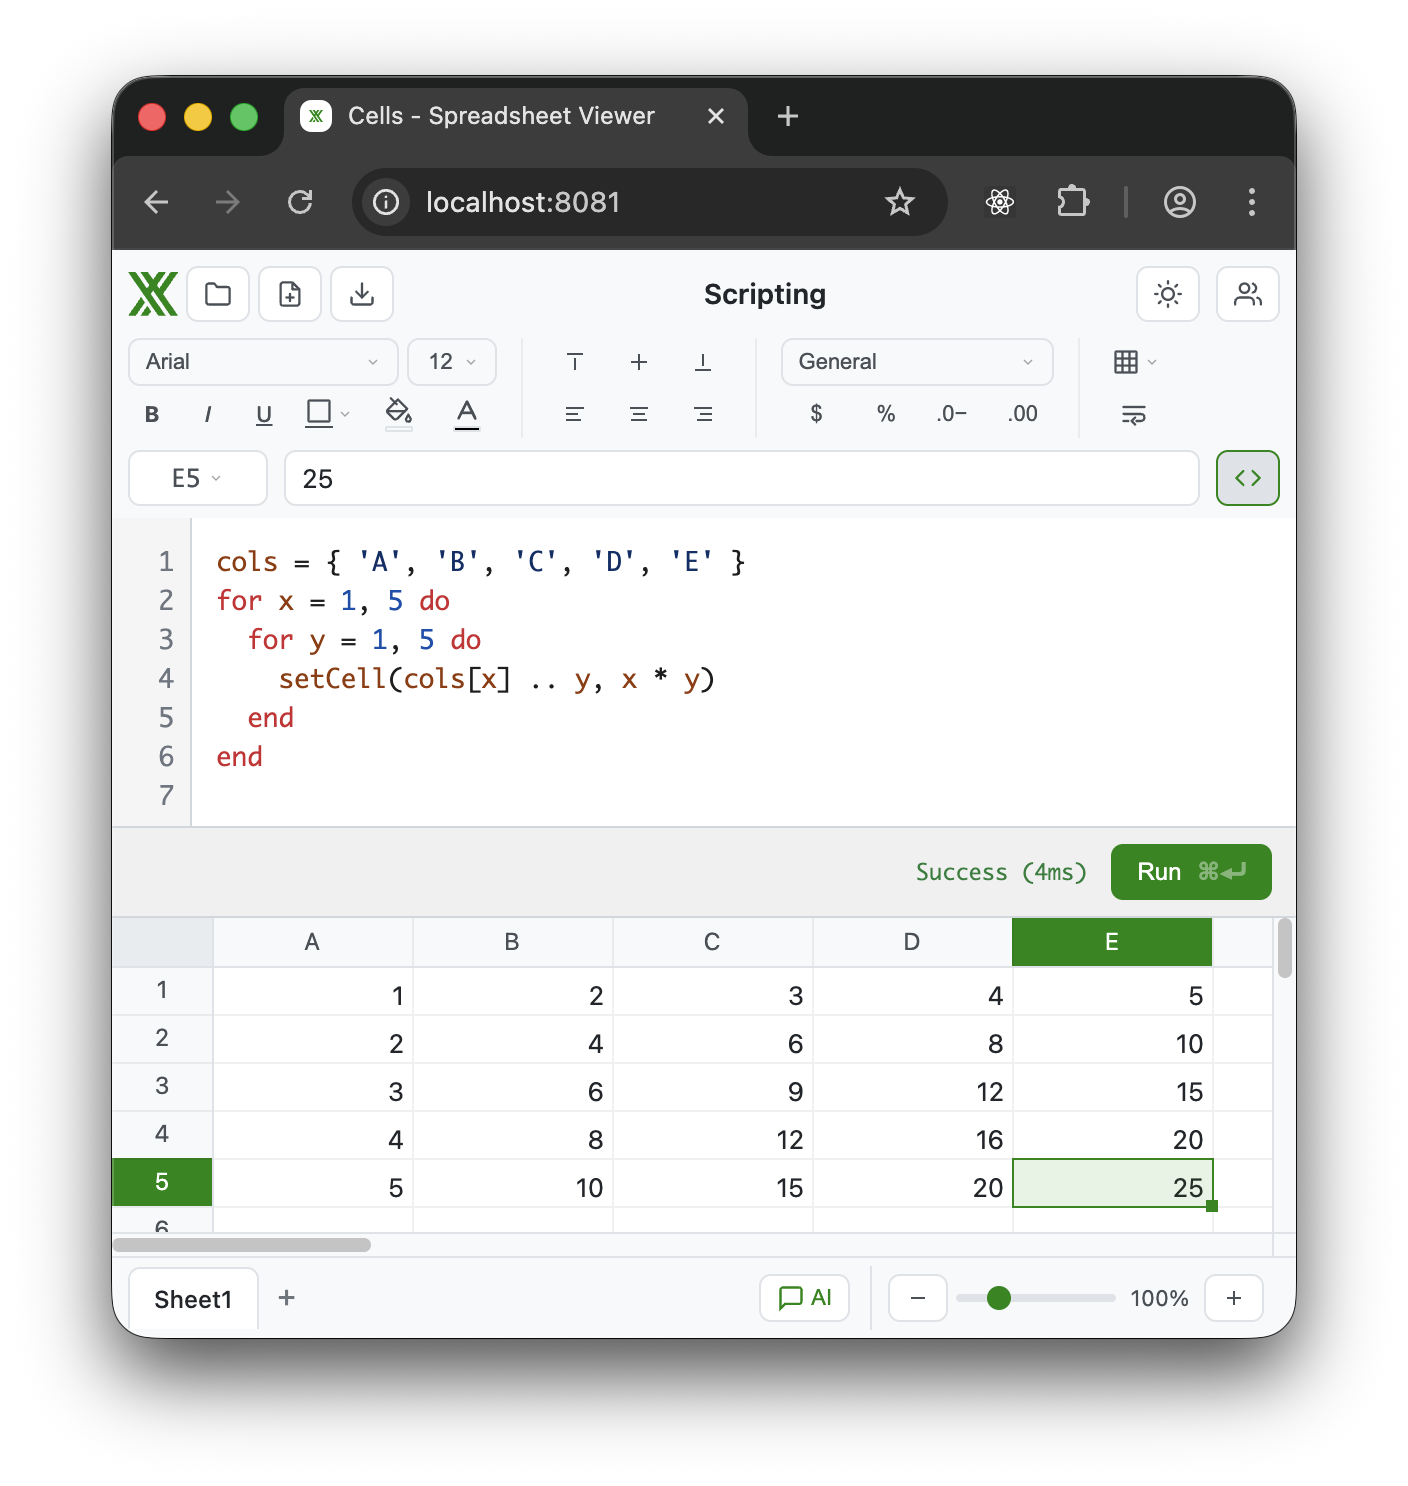
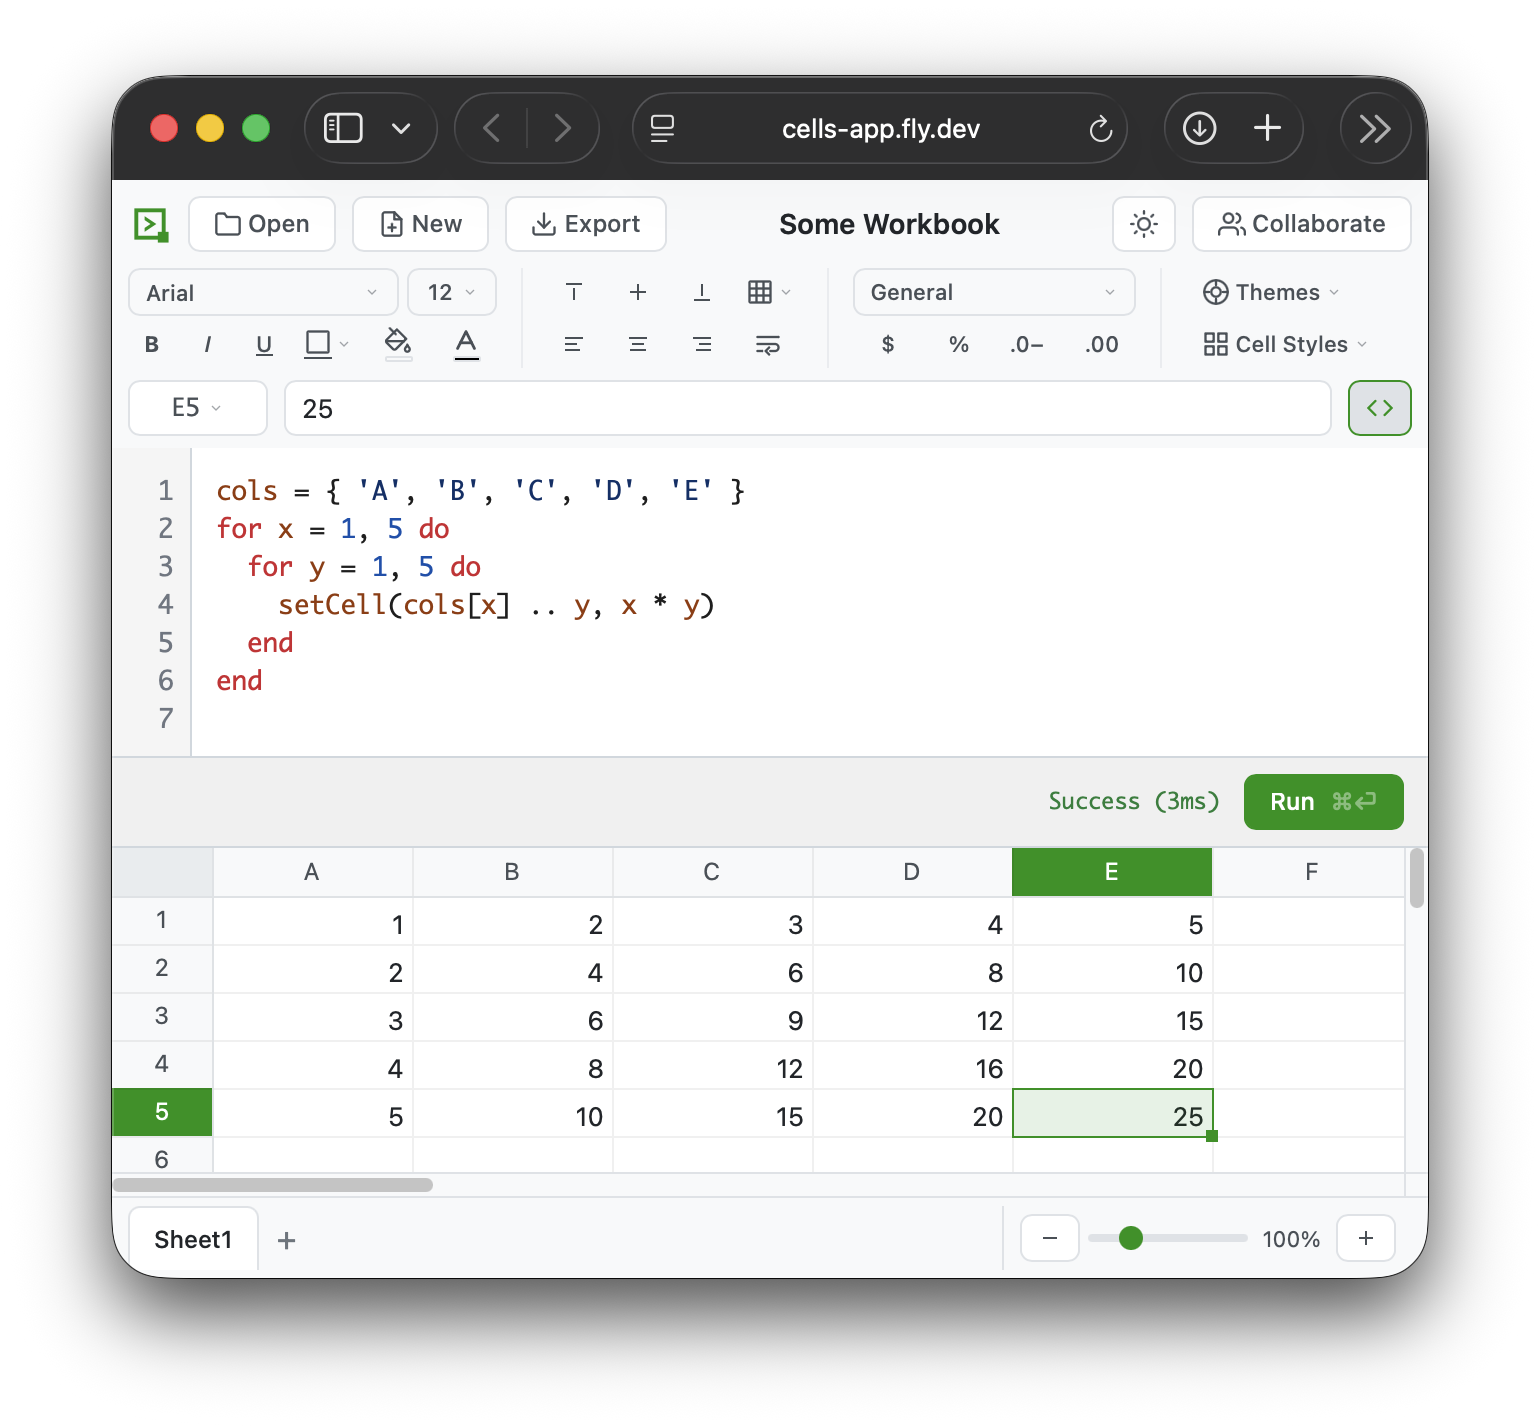
README polish + fix Homebrew tap publish secrets (#18)
* README updates

* more edits

* Proofread README typos and grammar

* Fix README comma splice with semicolon

* doc images

* Fix Homebrew tap publish via production env

- Bind homebrew job to production so App secrets resolve
- Keep required reviewer approval before formula push

diff --git a/README.md b/README.md
@@ -1,32 +1,41 @@
 # Cells
 
-A modern spreadsheet engine! 
+Cells is a modern spreadsheet engine, built with agentic use primarily in mind. 
 
-Use it as a **browser-based alternative to Excel/Google Sheets**, or as a **lightweight headless CLI** for automation and scripting.
+It’s lightweight (~XMB), fully scriptable ([Luau](https://luau.org) native runtime with Python, VBA and TypeScript planned), and uses its own text-based spreadsheet file format (CRDT structured for collaboration + diffs cleanly for versioning).
 
-**[Demo](https://cells-app.fly.dev/)** | [GitHub Pages](https://aduermael.github.io/cells/) | [Documentation](./docs/)
+Use it as a **browser-based alternative to Excel/Google Sheets**, or as a **lightweight headless CLI** for your agents. 
 
-## What is Cells?
+You can test it on the [presentation web page](https://aduermael.github.io/cells/). 
 
-Cells is a spreadsheet engine that works two ways:
+*NOTE: it’s early and not yet a drop-in replacement for Excel. (about 120 formulas supported over almost 500 in Excel, charts not yet supported also)*
 
-1. **Web App:** A full spreadsheet UI in your browser. Real-time collaboration, Excel import/export.
+## Made for AI agents to work with, not an agent itself
 
-   <img style="max-width:500px" src="./docs/img/demo.gif">
+Cells defines no harness, no system prompts. The CLI is designed for agents though, delivering context-window-conscious structured outputs and using code as the main request interface. 
 
-2. **Headless CLI:** Run spreadsheet operations from the command line. Convert formats, batch process files, integrate into pipelines.
+Here’s a quick demo where you can see humans (web clients) collaborating with Grok Build and Codex agents (using the CLI):
 
-	<img style="max-width:500px" src="./docs/img/cli.png">
+<img style="max-width:500px" src="./docs/img/demo.gif">
 
-Both share the same core engine, so formulas and files work identically across environments.
+## Scriptable
 
-**Key features:**
+Cells is built from the start as a fully scriptable Lua/Luau runtime. 
+(Python, VBA and TypeScript not yet supported but planned; they will under the hood be transpiled *into Luau*)
 
-- **Lightweight & Fast**
-- **Real-time collaboration** - Edit together with P2P sync
-- **Excel compatible** - Import and export .xlsx files seamlessly
-- **Fully scriptable** - Automate with [Luau](https://luau.org) scripts (Python, VBA, and TypeScript support planned)
-- **Git-friendly** - [Text-based file format](#collaboration--zcd-format-) that diffs cleanly
+<img style="max-width:400px" src="./docs/img/scripting.png">
+
+```bash
+# Run inline script
+cells -i data.csv output.xlsx -e 'setCell("A1", 100)'
+
+# Run a script file
+cells -i data.xlsx output.csv --script transform.luau
+
+# Script-only mode (no output file)
+cells -i report.xlsx --script analyze.luau
+cells -i data.csv -e 'print(getCell("A1"))'
+```
 
 ## Install
 
@@ -35,25 +44,19 @@ Install methods for the **CLI**, in order of preference:
 ### 1. Agent skill (recommended)
 
 Best default for agentic workflows. Installs a skill that knows how to install
-and use the `cells` binary:
+and use `cells`:
 
 ```bash
 curl -fsSL https://raw.githubusercontent.com/aduermael/cells/main/install-skill.sh | sh
 ```
 
-The skill lands in `.agents/skills/cells`, `.claude/skills/cells`, and
-`.grok/skills/cells`. When `cells` is missing from `PATH`, agents run the
-bundled `install.sh` (Homebrew first, then direct release install — no npm).
+The skill gets installed for Claude Code, Codex and Grok Build in your working directory. After this, just prompt for spreadsheet work like `"Open file.xlsx and fix formulas"`.
 
 ### 2. Homebrew
 
 ```bash
 brew install aduermael/tap/cells
 ```
-
-Requires the [Homebrew tap](https://github.com/aduermael/homebrew-tap) to be
-published for a release. Formula assets are generated automatically on each
-`v*` tag when tap credentials are configured.
 
 ### 3. Direct install (`curl | sh`)
 
@@ -62,15 +65,6 @@ Downloads the platform binary from the latest GitHub Release:
 ```bash
 curl -fsSL https://raw.githubusercontent.com/aduermael/cells/main/install.sh | sh
 ```
-
-User-local install (no sudo):
-
-```bash
-curl -fsSL https://raw.githubusercontent.com/aduermael/cells/main/install.sh \
-  | env CELLS_INSTALL_DIR=$HOME/.local/bin sh
-```
-
-Pin a version: `CELLS_VERSION=v0.0.1`.
 
 ### 4. Build from source
 
@@ -82,11 +76,10 @@ bazel run :cli-release  # optimized
 ### Optional: run the collaboration server
 
 Not required for CLI conversion/scripting. Use this only if you want to host
-the web UI + signaling yourself.
+the web UI + signaling server yourself.
 
 | Method | Command |
 |--------|---------|
-| **Public demo** | [https://cells-app.fly.dev/](https://cells-app.fly.dev/) |
 | **Docker** | `docker build -t cells-server . && docker run -p 8080:8080 cells-server` |
 | **Local dev** | `bazel run :wasm-dist && bazel run :serve` → http://localhost:8081 |
 
@@ -99,12 +92,13 @@ cells session exec SESSION_ID -e 'setCell("A1", 1)'
 cells sync 'https://your-host/?room=YOUR_ROOM'
 ```
 
-Tag a release (`git tag v0.0.1 && git push origin v0.0.1`) to build multi-platform
-CLI assets and publish a GitHub Release automatically.
-
 ## Quick Start
 
 ### Web UI
+
+The simplest is to test the most recent release here: https://cells-app.fly.dev
+
+To build and run locally: 
 
 ```bash
 # Build and serve locally
@@ -146,24 +140,6 @@ cells -i budget.xlsx budget.csv --eval
 cells -i calculations.xlsx results.csv --eval
 ```
 
-#### Scripting
-
-<img style="max-width:400px" src="./docs/img/scripting.png">
-
-Run [Luau](https://luau.org) scripts to transform data, automate workflows, or analyze spreadsheets:
-
-```bash
-# Run a script file
-cells -i data.xlsx output.csv --script transform.luau
-
-# Run inline script
-cells -i data.csv output.xlsx -e 'setCell("A1", 100)'
-
-# Script-only mode (no output file)
-cells -i report.xlsx --script analyze.luau
-cells -i data.csv -e 'print(getCell("A1"))'
-```
-
 #### Empty Workbook Creation
 
 Create new workbooks from scratch, optionally with scripted content:
@@ -177,7 +153,9 @@ cells output.xlsx
 cells output.xlsx -e 'setCell("A1", "Hello") setCell("A2", "=A1 & \" World\")'
 ```
 
-## Architecture 🏛
+## Architecture
+
+Same engine, two shapes: **WebAssembly** in the browser, **native** for the CLI. The web UI stays intentionally thin (canvas + events in TypeScript). Spreadsheet logic (model, formulas, CRDT ops) lives in C++17 and is shared.
 
 ```
 ┌─────────────────────────────────────────────────────┐
@@ -198,28 +176,29 @@ cells output.xlsx -e 'setCell("A1", "Hello") setCell("A2", "=A1 & \" World\")'
 └─────────────────────────────────────────────────────┘
 ```
 
-The engine compiles to WebAssembly for the browser and native code for the CLI. All mutations go through CRDT operations, making collaboration a first-class feature rather than an afterthought.
+### Collaboration & `.zcd`
 
-### Collaboration & ZCD Format 📄
+Realtime sync is **WebRTC peer-to-peer**. A small signaling server only helps clients find each other (offers, answers, ICE). Once a DataChannel is up, document ops and presence travel between peers, not through a central document store. Concurrent edits merge automatically with CRDTs.
 
-Cells uses peer-to-peer sync via WebRTC. Document data travels directly between clients with no relay servers. Concurrent edits merge automatically using CRDTs.
+The native format is **`.zcd`** (Zero Conflict Document). It is plain text on purpose, built around collab and clean git diffs:
 
-The native `.zcd` format (Zero Conflict Document) is designed for this:
+- **One entity per line:** edit a cell, column, or row → exactly one line changes
+- **Content-addressed styles/formats:** same style encodes to the same base64 blob (auto-deduped; the content *is* the identity)
+- **CRDT operation log:** full edit history for sync and conflict resolution
 
-- **One entity per line** - Editing a cell changes exactly one line, minimal diffs
-- **Content-addressed styles** - Styles/formats stored as base64 hashes, auto-deduplicated
-- **CRDT operation log** - Full edit history for sync and conflict resolution
+A tiny workbook (value `42` in one cell, formula `=A1*10` next to it) looks roughly like this:
 
 ```
 D yRUosCbW "Untitled"
 S FD3KLIgo "Sheet1"
-C C4Jr2s32 1
-C pYYl3eZ1 2
-R Zv6vRn4q 1
+C C4Jr2s32 0
+C pYYl3eZ1 1
+R Zv6vRn4q 0
 X XO5lD1Nh C4Jr2s32 Zv6vRn4q n 42 fmt:DwICAQEk
 X 1MvyBXyr pYYl3eZ1 Zv6vRn4q f "=~~XO5lD1Nh*10" fmt:DwICAQEk sty:BAAB
 ```
-<sub>
+
+Formulas store stable cell IDs (`~~XO5lD1Nh`), not A1 coordinates, so inserts and renames do not break references. Below the snapshot, the op log records how the doc got there:
 
 ```
 #oplog
@@ -227,28 +206,7 @@ O 1769998913268.0.atyBEwwf CELL_SET XO5lD1Nh {"t":"n","v":"42","col":"C4Jr2s32",
 O 1769998921630.0.atyBEwwf CELL_SET 1MvyBXyr {"t":"f","v":"=~~XO5lD1Nh*10","col":"pYYl3eZ1","row":"Zv6vRn4q"}
 ```
 
-</sub>
-
-See [docs/persistence.md](./docs/persistence.md) for the full specification.
-
-For detailed architecture documentation, see [docs/](./docs/).
-
-## AI Agents 🤖
-
-Cells does **not** host an in-product AI agent. Humans use the web client; agents use the **CLI** (and the agent skill) like any other tool—Codex, Claude Code, Grok, or anything else.
-
-**Collaborate with an agent:** open the Collaborate menu in the web UI, copy the room link, and give it to an agent. The agent starts a long-running **session** so the CLI peer stays connected while it runs multiple scripts:
-
-```bash
-cells session start '<room-url>' --name 'CLI Agent'
-cells session exec SESSION_ID -e 'setCell("A1", 42)'
-cells session watch SESSION_ID --duration 30
-cells session stop SESSION_ID
-```
-
-Sessions auto-stop after idle minutes (default 30; `--idle-minutes N`). For a one-shot blocking listener, `cells sync '<room-url>'` still works.
-
-Install the skill (CLI + docs) with `./install-skill.sh` or see [skill/SKILL.md](./skill/SKILL.md). In this repository, skills are also symlinked for local agent discovery under `.agents/skills/cells`, `.claude/skills/cells`, and `.grok/skills/cells`.
+Full format spec: [docs/persistence.md](./docs/persistence.md). Deeper architecture notes live under [docs/](./docs/).
 
 ## Requirements 📋
 
@@ -279,41 +237,6 @@ bazel run :check            # All checks (test + lint + types)
 
 # Landing site (GitHub Pages artifact)
 ./tools/prepare-pages.sh    # → dist/pages/
-```
-
-## Deploy 🚀
-
-Production deploys are **manual** GitHub Actions workflows (no auto-deploy on push):
-
-| Workflow | What it deploys |
-|----------|-----------------|
-| **Deploy server (Fly.io)** | Collaboration server + WASM app → [cells-app.fly.dev](https://cells-app.fly.dev/) |
-| **Deploy website (GitHub Pages)** | Minimal landing page (iframe demo + links) → GitHub Pages |
-| **Deploy all** | Both of the above (reuses the same workflows) |
-
-### GitHub `production` environment secrets
-
-| Secret | Where | Required | Purpose |
-|--------|-------|----------|---------|
-| `FLY_API_TOKEN` | GitHub Environment **production** | Yes (server) | `flyctl deploy` |
-
-### Fly app secrets (not GitHub)
-
-Set with `fly secrets set` on the `cells-app` app:
-
-| Secret | Required | Purpose |
-|--------|----------|---------|
-| *(none required for agent features)* | — | Agents use the CLI; the server only needs collab for multi-peer rooms |
-
-### One-time GitHub Pages setting
-
-**Settings → Pages → Build and deployment → Source: GitHub Actions**
-
-Local preview of the landing page:
-
-```bash
-./tools/prepare-pages.sh
-# open dist/pages/index.html (iframe still loads the live Fly app)
 ```
 
 ## Documentation 📚
